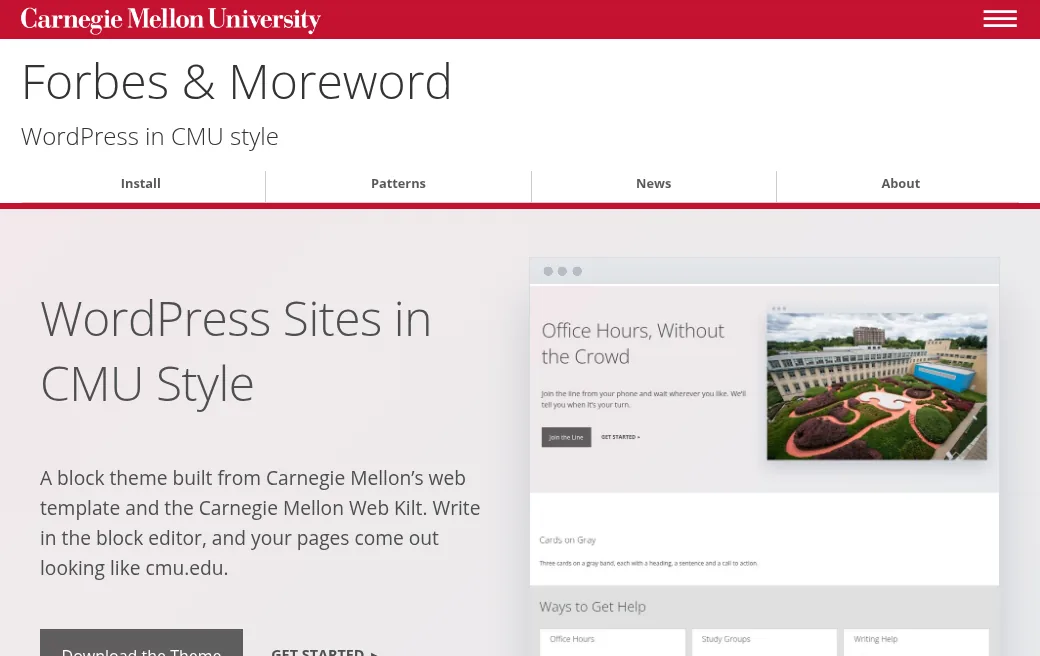
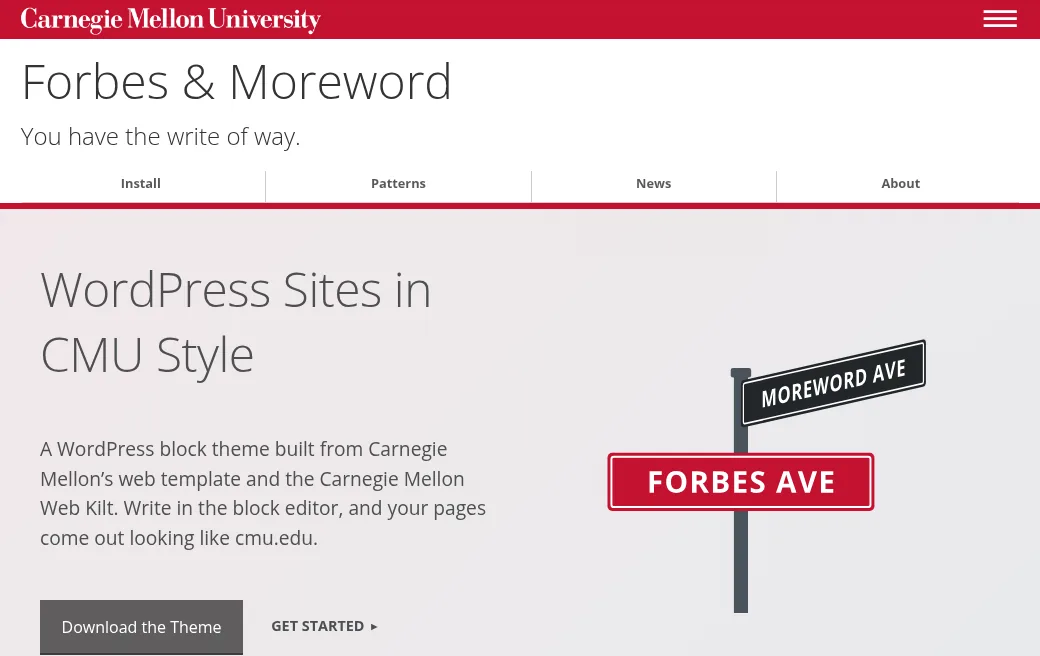
feat: street signs on the home page, a new tagline and a Wrong Turn page
* The home hero's art is two crossed street signs, Forbes Ave and Moreword Ave, in the Web Kilt's red and ink with Open Sans as outlines (dev/signs.py draws it), shown without the browser frame
* The site's tagline is "You have the write of way."; the hero's lead names WordPress
* The site's 404 page is Wrong Turn, with a link back home; the theme keeps its plain Page Not Found
* The seed adds the site's own templates, like its own footer
* The CMU Web card image shows the new hero

diff --git a/site/pages/00-home.html b/site/pages/00-home.html
@@ -11,7 +11,7 @@ template: page-sections
 <!-- /wp:heading -->
 
 <!-- wp:paragraph {"className":"cmu-lead"} -->
-<p class="cmu-lead">A block theme built from Carnegie Mellon's web template and the Carnegie Mellon Web Kilt. Write in the block editor, and your pages come out looking like cmu.edu.</p>
+<p class="cmu-lead">A WordPress block theme built from Carnegie Mellon's web template and the Carnegie Mellon Web Kilt. Write in the block editor, and your pages come out looking like cmu.edu.</p>
 <!-- /wp:paragraph -->
 
 <!-- wp:buttons {"className":"cmu-cta-row"} -->
@@ -25,9 +25,9 @@ template: page-sections
 <!-- /wp:buttons --></div>
 <!-- /wp:group -->
 
-<!-- wp:group {"className":"cmu-hero-art","layout":{"type":"default"}} -->
-<div class="wp-block-group cmu-hero-art"><!-- wp:image {"sizeSlug":"full"} -->
-<figure class="wp-block-image size-full"><img src="{{image:patterns-page.jpg}}" alt="A page made with the theme: a split hero, then three cards on a gray band."/></figure>
+<!-- wp:group {"className":"cmu-hero-art cmu-hero-art--plain","layout":{"type":"default"}} -->
+<div class="wp-block-group cmu-hero-art cmu-hero-art--plain"><!-- wp:image {"sizeSlug":"full"} -->
+<figure class="wp-block-image size-full"><img src="/images/forbes-and-moreword-signs.svg" alt="Two street signs on a post: Forbes Ave in red, and Moreword Ave in dark gray crossing it." width="600" height="400"/></figure>
 <!-- /wp:image --></div>
 <!-- /wp:group --></div>
 <!-- /wp:group -->

diff --git a/site/templates/404.html b/site/templates/404.html
@@ -1,0 +1,19 @@
+<!-- wp:group {"anchor":"container","layout":{"type":"default"}} -->
+<div id="container" class="wp-block-group"><!-- wp:template-part {"slug":"header","tagName":"header","area":"header"} /-->
+
+<!-- wp:group {"tagName":"main","anchor":"content","layout":{"type":"default"}} -->
+<main id="content" class="wp-block-group"><!-- wp:group {"className":"content wide","layout":{"type":"default"}} -->
+<div class="wp-block-group content wide"><!-- wp:group {"layout":{"type":"default"}} -->
+<div class="wp-block-group"><!-- wp:heading {"level":1} -->
+<h1 class="wp-block-heading">Wrong Turn</h1>
+<!-- /wp:heading -->
+
+<!-- wp:paragraph -->
+<p>This page isn't on the map. Head back to <a href="/">Forbes &amp; Moreword</a>.</p>
+<!-- /wp:paragraph --></div>
+<!-- /wp:group --></div>
+<!-- /wp:group --></main>
+<!-- /wp:group -->
+
+<!-- wp:template-part {"slug":"footer","tagName":"footer","className":"grid column3 invert","area":"footer"} /--></div>
+<!-- /wp:group -->

diff --git a/dev/signs.py b/dev/signs.py
@@ -1,0 +1,54 @@
+#!/usr/bin/env python3
+# Draws site/static/images/forbes-and-moreword-signs.svg: two crossed street signs on
+# a post, FORBES AVE facing us and MOREWORD AVE running back from it, in the
+# Web Kilt's colors with Open Sans Bold as outlines (so no font is needed)
+#   python3 dev/signs.py site/static/images/forbes-and-moreword-signs.svg
+import sys
+from fontTools.ttLib import TTFont
+from fontTools.pens.svgPathPen import SVGPathPen
+from fontTools.pens.transformPen import TransformPen
+
+font = TTFont("/usr/share/fonts/truetype/open-sans/OpenSans-Bold.ttf")
+gs, cmap, upm = font.getGlyphSet(), font.getBestCmap(), font["head"].unitsPerEm
+hmtx = font["hmtx"]
+
+def width(text, size, track=0.04):
+    return sum(hmtx[cmap[ord(c)]][0] for c in text) * size / upm + track * size * (len(text) - 1)
+
+def text(text, size, x, y, track=0.04):
+    """Outline path for text with its baseline at (x, y)."""
+    pen = SVGPathPen(gs)
+    cx = 0
+    for c in text:
+        g = cmap[ord(c)]
+        s = size / upm
+        gs[g].draw(TransformPen(pen, (s, 0, 0, -s, x + cx, y)))
+        cx += hmtx[g][0] * s + track * size
+    return pen.getCommands()
+
+RED, INK, GRAY, WHITE, POLE = "#c41230", "#22262a", "#6d6e71", "#fff", "#4a535b"
+W, H = 600, 400
+out = [f'<svg xmlns="http://www.w3.org/2000/svg" viewBox="0 0 {W} {H}" width="{W}" height="{H}" role="img" aria-labelledby="t">',
+       '<title id="t">Two street signs on a post: Forbes Ave and Moreword Ave</title>']
+px = 270  # the post's center
+# The post
+out.append(f'<rect x="{px-9}" y="96" width="18" height="{H-96}" fill="{POLE}"/>')
+out.append(f'<rect x="{px-13}" y="88" width="26" height="12" rx="3" fill="{POLE}"/>')
+# MOREWORD AVE runs back from the post: a sign seen at an angle, its far end
+# smaller, on top
+def sign(label, fill, x, y, w, h, size):
+    tw = width(label, size)
+    d = text(label, size, x + (w - tw) / 2, y + h / 2 + size * 0.36)
+    return (f'<rect x="{x}" y="{y}" width="{w}" height="{h}" rx="6" fill="{fill}"/>'
+            f'<rect x="{x+5}" y="{y+5}" width="{w-10}" height="{h-10}" rx="3" fill="none" stroke="{WHITE}" stroke-width="2.5"/>'
+            f'<path d="{d}" fill="{WHITE}"/>')
+# The back sign, drawn flat then put in perspective: it narrows to the right
+bw, bh = 380, 70
+back = sign("MOREWORD AVE", INK, 0, 0, bw, bh, 34)
+# Skew and squash so it runs away from us, starting at the post
+out.append(f'<g transform="translate({px} 104) matrix(0.62 -0.14 0 0.86 0 0)">{back}</g>')
+# The front sign, facing us, crossing the post below it
+fw, fh = 340, 74
+out.append(f'<g transform="translate({px - fw/2} 196)">{sign("FORBES AVE", RED, 0, 0, fw, fh, 38)}</g>')
+out.append('</svg>')
+open(sys.argv[1], "w").write("\n".join(out) + "\n")
